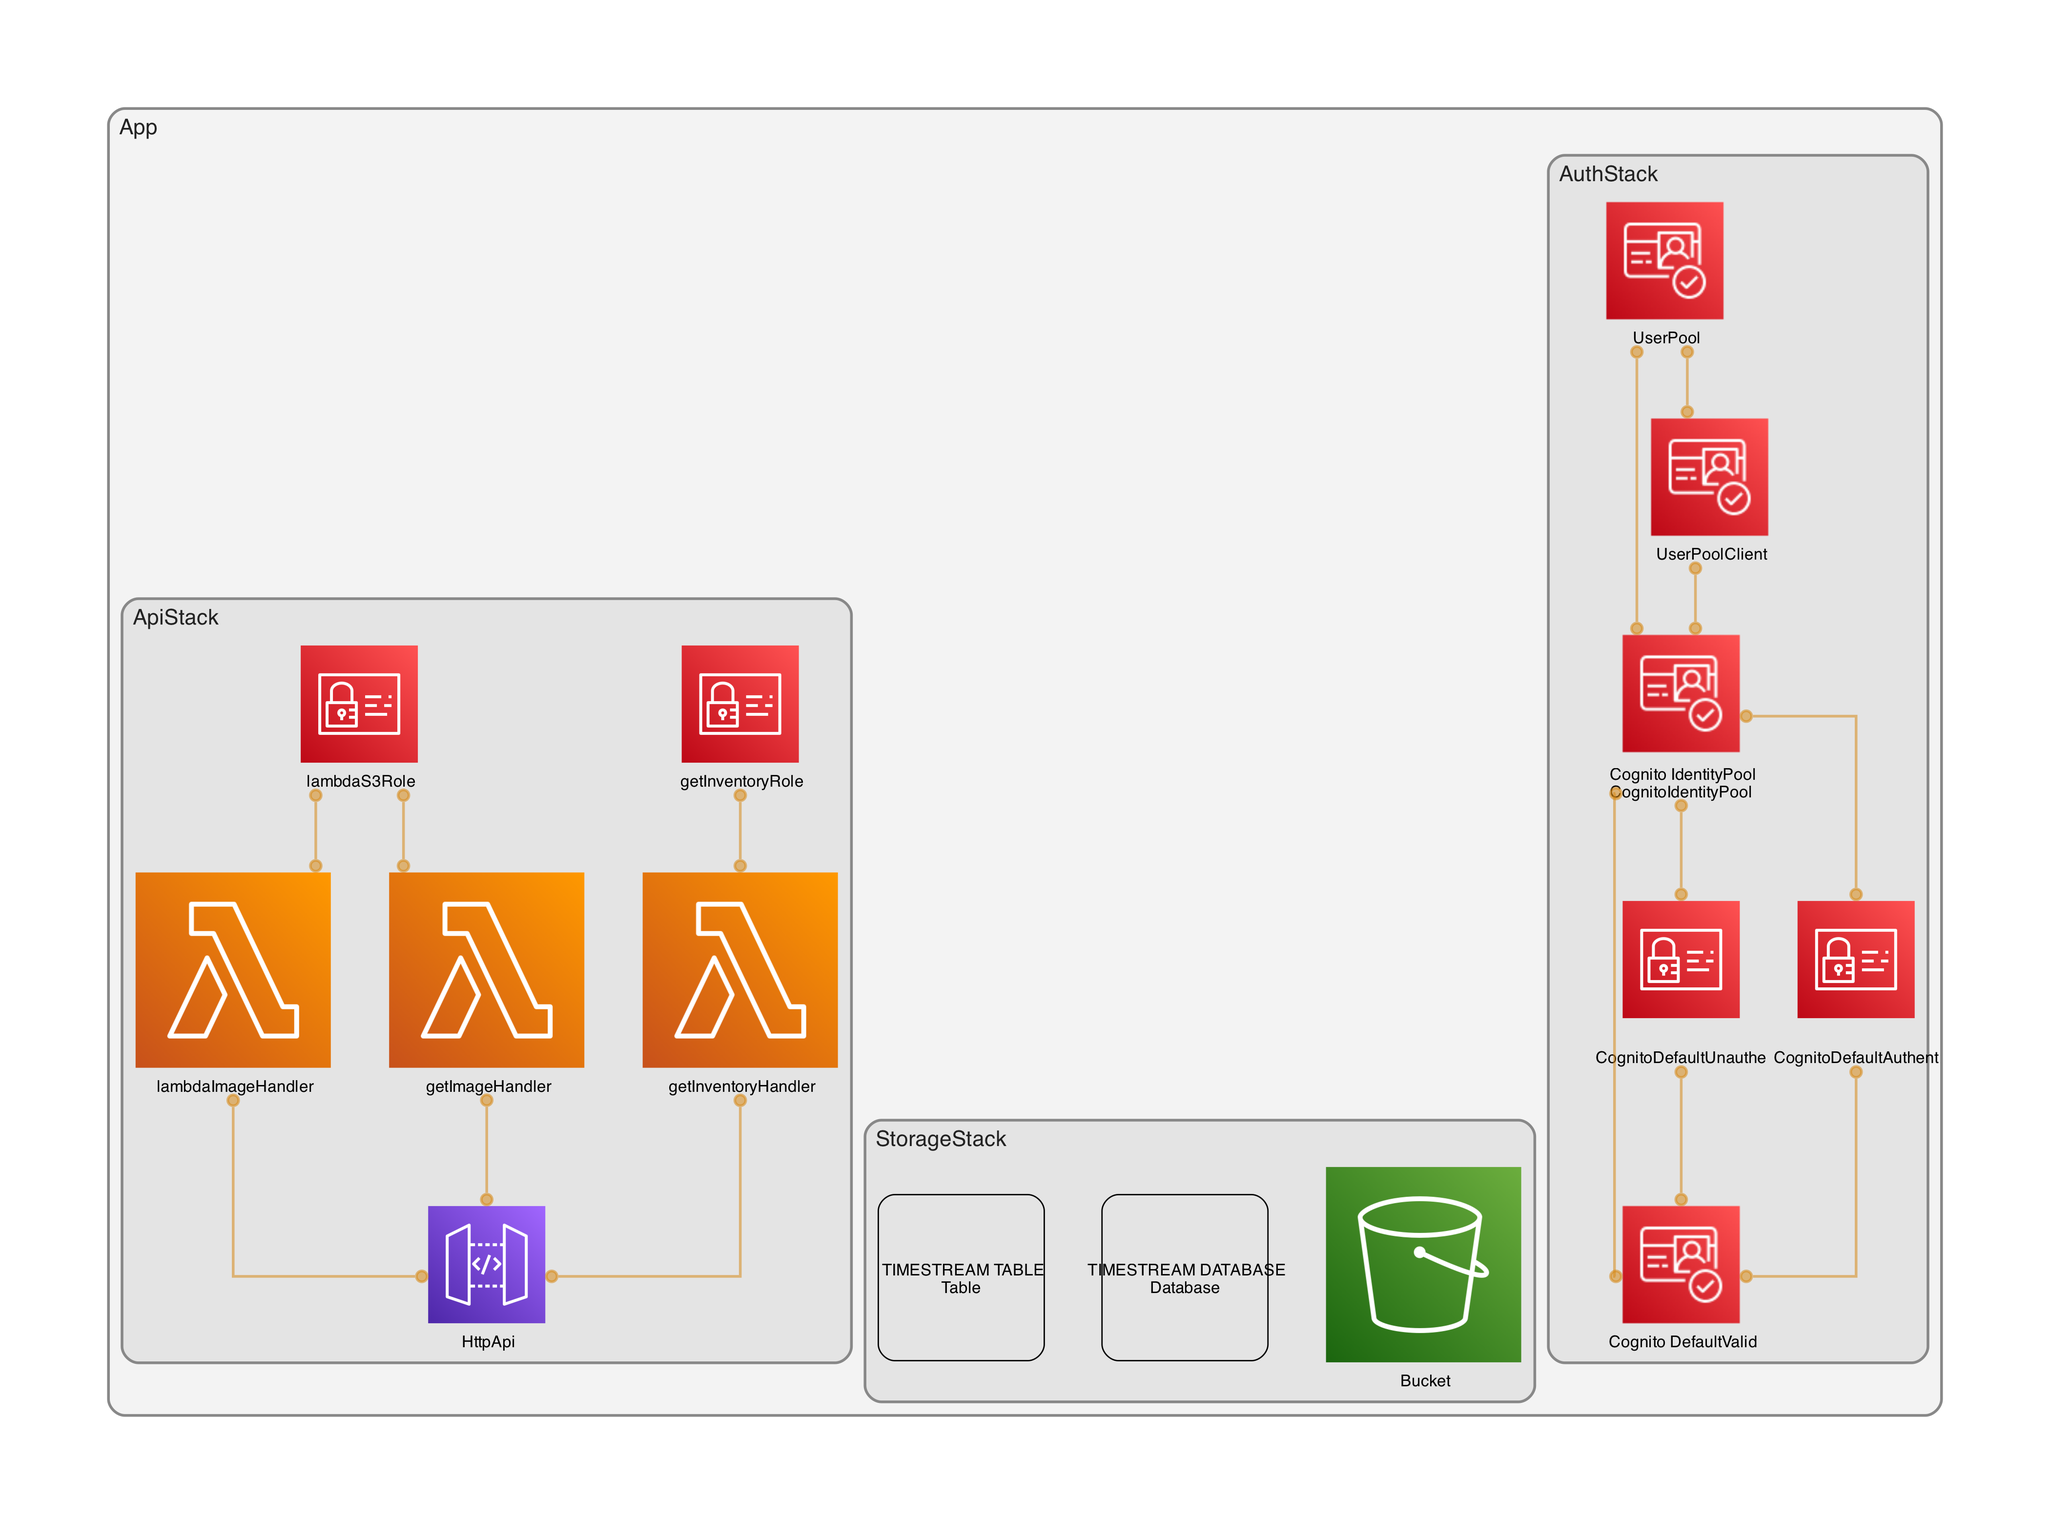
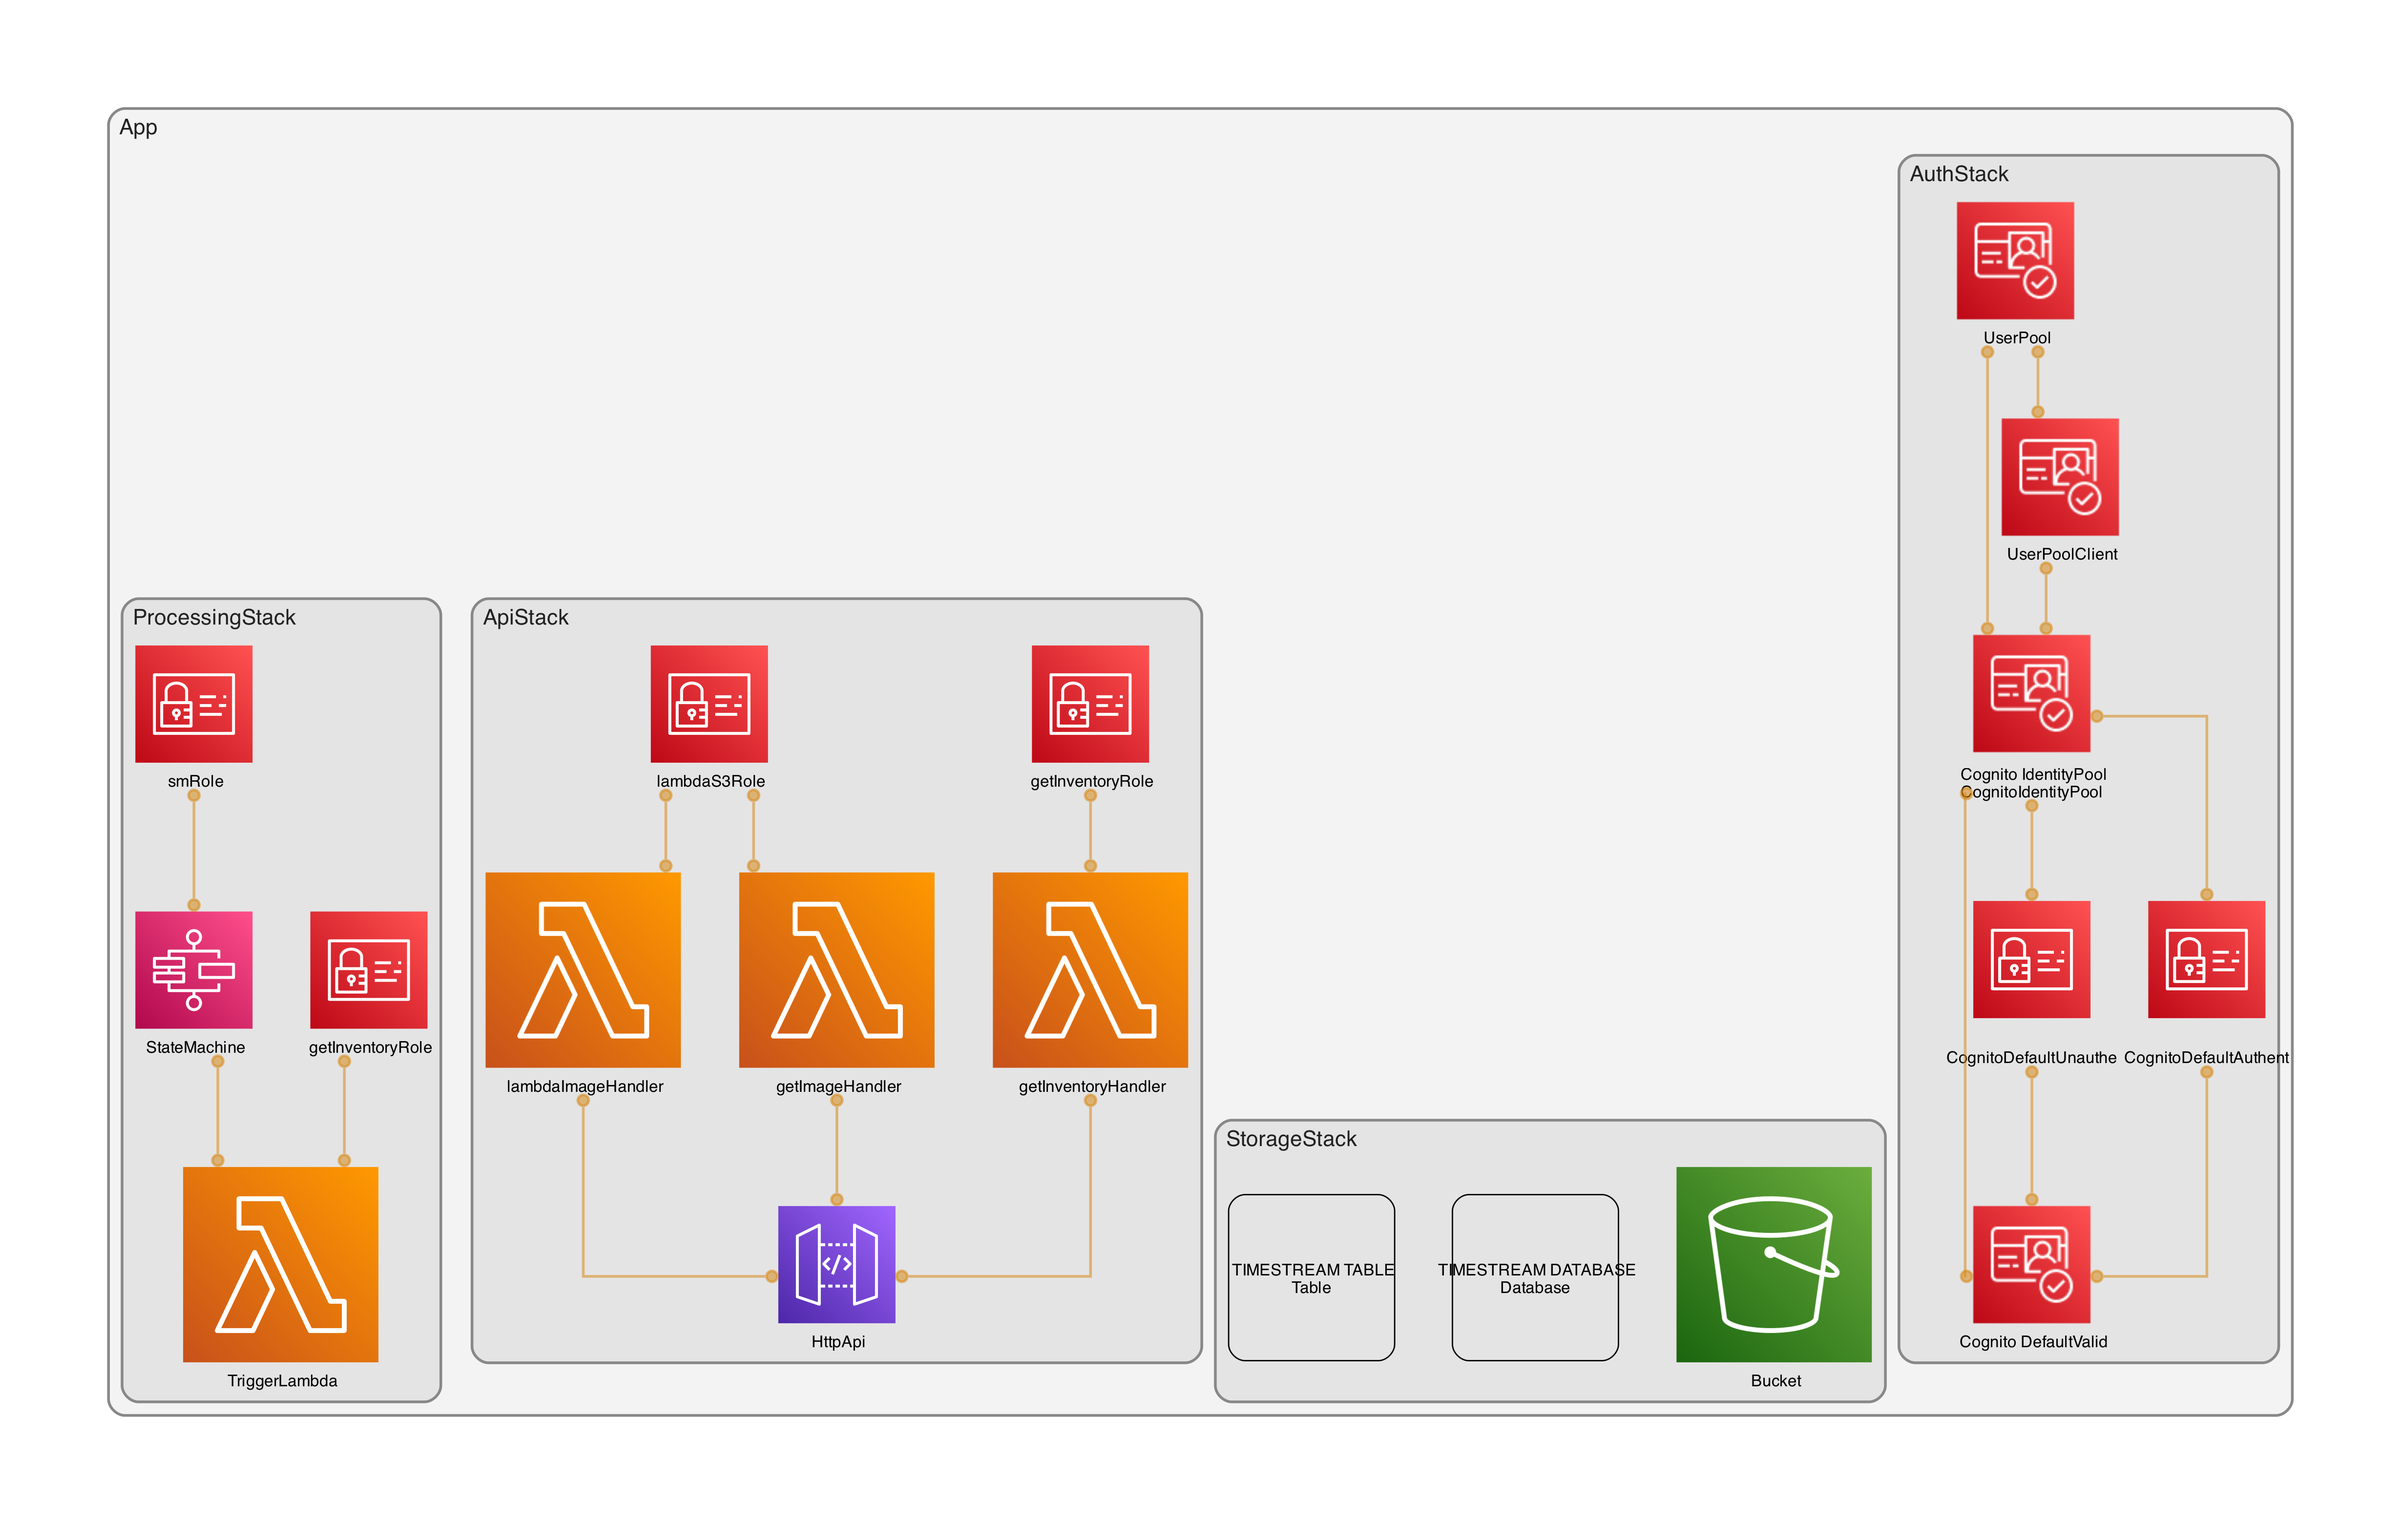
rebase

diff --git a/cdk/lib/processing-stack.ts b/cdk/lib/processing-stack.ts
@@ -8,8 +8,11 @@ export class ProcessingStack extends cdk.Stack {
 
 		const { projectName, environment, accountId, region } = props;
 
+<<<<<<< HEAD
 		// Puts image in the s3 bucket
 		// TODO: Lambda function for intiailizing when put in specific folder
+=======
+>>>>>>> 004d9c0 (refact: revised based on input)
 		const detectCustomLabels = new sfn.CustomState(this, "detectCustomLabels", {
 			stateJson: {
 				Type: "Task",
@@ -21,7 +24,6 @@ export class ProcessingStack extends cdk.Stack {
 							Version: "string",
 						},
 					},
-					// TODO: Get projectArn from created
 					ProjectVersionArn: "MyData",
 				},
 				Resource: "arn:aws:states:::aws-sdk:rekognition:detectCustomLabels",
@@ -54,11 +56,41 @@ export class ProcessingStack extends cdk.Stack {
 			],
 		});
 
-		// TODO: Walk through all of state machine
 		const sm = new sfn.StateMachine(this, "StateMachine", {
 			definitionBody: sfn.DefinitionBody.fromChainable(chain),
 			timeout: cdk.Duration.seconds(30),
 			role: smRole,
+		});
+
+		// Trigger lambda
+		const triggerLambdaRole = new cdk.aws_iam.Role(this, "getInventoryRole", {
+			assumedBy: new cdk.aws_iam.ServicePrincipal("lambda.amazonaws.com"),
+			managedPolicies: [
+				cdk.aws_iam.ManagedPolicy.fromAwsManagedPolicyName(
+					"AWSStepFunctionsFullAccess"
+				),
+				cdk.aws_iam.ManagedPolicy.fromAwsManagedPolicyName(
+					"AmazonS3FullAccess"
+				),
+			],
+		});
+
+		new cdk.aws_lambda.Function(this, "TriggerLambda", {
+			code: cdk.aws_lambda.Code.fromAsset("../backend"),
+			handler: "trigger_sfn.handler",
+			runtime: cdk.aws_lambda.Runtime.PYTHON_3_12,
+			environment: {
+				SFN_ARN: sm.stateMachineArn,
+			},
+			role: triggerLambdaRole,
+		});
+
+		// TODO: Custom resource for automatically running lambda
+
+		// CloudFormation outputs
+		new cdk.CfnOutput(this, "StateMachineArn", {
+			value: sm.stateMachineArn,
+			description: "State Machine ARN",
 		});
 	}
 }

diff --git a/cdk/lib/storage-stack.ts b/cdk/lib/storage-stack.ts
@@ -15,28 +15,28 @@ export class StorageStack extends cdk.Stack {
 			bucketName: `${environment}-${projectName}-${accountId}-${region}-bucket`,
 		});
 
-		// this.database = new cdk.aws_timestream.CfnDatabase(this, "Database", {
-		// 	databaseName: `${environment}-${projectName}-db`,
-		// });
+		this.database = new cdk.aws_timestream.CfnDatabase(this, "Database", {
+			databaseName: `${environment}-${projectName}-db`,
+		});
 
-		// this.table = new cdk.aws_timestream.CfnTable(this, "Table", {
-		// 	databaseName: `${environment}-${projectName}-db`,
-		// 	tableName: `${environment}-${projectName}-table`,
-		// });
+		this.table = new cdk.aws_timestream.CfnTable(this, "Table", {
+			databaseName: `${environment}-${projectName}-db`,
+			tableName: `${environment}-${projectName}-table`,
+		});
 
 		new cdk.CfnOutput(this, "ImageBucket", {
 			value: this.bucket.bucketName,
 			description: "Image storage bucket name",
 		});
 
-		// new cdk.CfnOutput(this, "TimestreamDB", {
-		// 	value: this.database.databaseName ?? "",
-		// 	description: "Timestream database name",
-		// });
+		new cdk.CfnOutput(this, "TimestreamDB", {
+			value: this.database.databaseName ?? "",
+			description: "Timestream database name",
+		});
 
-		// new cdk.CfnOutput(this, "TimestreamTable", {
-		// 	value: this.table.tableName ?? "",
-		// 	description: "Timestream database name",
-		// });
+		new cdk.CfnOutput(this, "TimestreamTable", {
+			value: this.table.tableName ?? "",
+			description: "Timestream database name",
+		});
 	}
 }

diff --git a/cdk/bin/cdk.ts b/cdk/bin/cdk.ts
@@ -4,6 +4,7 @@ import * as cdk from "aws-cdk-lib";
 import { AuthStack } from "../lib/auth-stack";
 import { ApiStack } from "../lib/api-stack";
 import { StorageStack } from "../lib/storage-stack";
+import { ProcessingStack } from "../lib/processing-stack";
 
 const envVariables = {
 	environment: process.env["ENV"],
@@ -23,6 +24,8 @@ new ApiStack(app, "ApiStack", {
 	table: storageStack.table,
 	userPool: authStack.userPool,
 });
+
+new ProcessingStack(app, "ProcessingStack", { ...envVariables });
 
 // TODO: WebStack
 // Circular dependencies right now for pulling in data and then deploying
